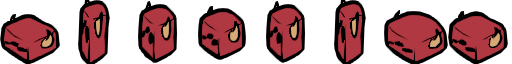
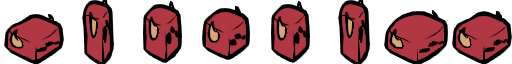
Bg (#2)
* add health sprites

* fix player2 sprite map

* fix character spawns

---------

diff --git a/main.py b/main.py
@@ -1,5 +1,6 @@
 import pygame
 from elements import Player, Gun, HorizontalTube, VerticalTube, config
+from elements.config import FLOOR_HEIGHT
 from pygame.surface import Surface
 from time import sleep
 
@@ -112,6 +113,10 @@ if __name__ == "__main__":
     players, player_images = load_player_images()
     player1 = players[0]
     player2 = players[1]
+
+    # Set spawn points 
+    player1.position = (100, FLOOR_HEIGHT)
+    player2.position = (1000, FLOOR_HEIGHT) 
 
     generate_tubes()
 

diff --git a/elements/config.py b/elements/config.py
@@ -5,7 +5,7 @@ BACKGROUND_COLOR = 60, 50, 70
 GAME_NAME = "Tubi Fire"
 SCREEN_WIDTH = 1160
 SCREEN_HEIGHT = 700
-FLOOR_HEIGHT = 50
+FLOOR_HEIGHT = 66
 BULLET_SPEED=15
 ASSETS_PATH = Path(__file__).parent.parent.joinpath("assets")
 BG_IMAGE_SHIFT = -50
